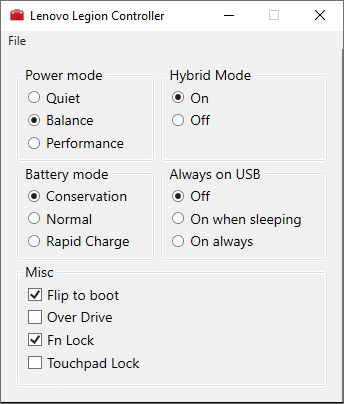
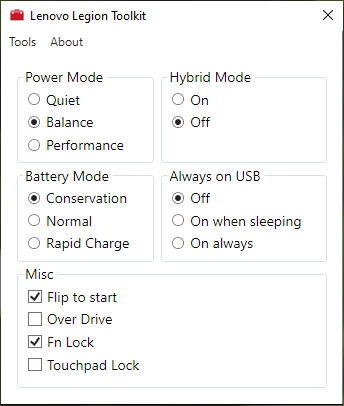
Updated readme and some minor tweaks to UI.

diff --git a/MainWindow.xaml b/MainWindow.xaml
@@ -5,10 +5,10 @@
         xmlns:mc="http://schemas.openxmlformats.org/markup-compatibility/2006"
         mc:Ignorable="d"
         Title="Lenovo Legion Toolkit" SizeToContent="WidthAndHeight" ResizeMode="NoResize" x:Name="mainWindow"
-        FontSize="14" WindowStartupLocation="CenterScreen" Background="#FFF0F0F0">
+        FontSize="14" WindowStartupLocation="CenterScreen" Background="#FFF">
 
     <DockPanel>
-        <Menu DockPanel.Dock="Top" Background="#FFF0F0F0">
+        <Menu DockPanel.Dock="Top" Background="#FFF" Margin="1">
             <MenuItem Header="Tools">
                 <MenuItem Header="Lenovo Vantage">
                     <MenuItem Header="Enable" Click="EnableVantageMenuItem_Click" />

diff --git a/AboutWindow.xaml.cs b/AboutWindow.xaml.cs
@@ -14,7 +14,7 @@ namespace LenovoLegionToolkit
         {
             InitializeComponent();
 
-            versionLbl.Content += Assembly.GetEntryAssembly().GetName().Version.ToString(3);
+            versionLbl.Content += Assembly.GetEntryAssembly().GetName().Version.ToString(2);
         }
 
         private void Hyperlink_RequestNavigate(object sender, RequestNavigateEventArgs e)

diff --git a/App.xaml.cs b/App.xaml.cs
@@ -39,7 +39,7 @@ namespace LenovoLegionToolkit
 
         private static bool ShouldByPassCompatibilityCheck(string[] args)
         {
-            return args.Length > 0 && args[0] == "--skip-compat-check";
+            return args.Length > 0 && args[0] == "--no-compat-check";
         }
     }
 }

diff --git a/README.md b/README.md
@@ -1,8 +1,8 @@
 # Lenovo Legion Toolkit
 
-This is a small utility (less than 10MB) created for Lenovo Legion laptops, that allows to change a couple of features that are usually part of Lenovo Vantage.
+This is a small utility (less than 10MB) created for Lenovo Legion laptops, that allows to change a couple of features that are only available in Lenovo Vantage.
 
-It is a simple executable that needs no installation and runs no background services. It uses less memory and contains no telemetry.
+It is a single executable app that needs no installation and runs no background services. It uses less memory, virtually no CPU and contains no telemetry.
 
 ![screenshot](assets/screenshot.png)
 
@@ -16,10 +16,12 @@ The tool comes with no warranty. Use at you own risk.
 
 ## Compatibility
 
+* Lenovo Legion 7 16ACHg6
+* Lenovo Legion 7 16ITHg6
 * Lenovo Legion 5 Pro 16ACH6H
 
 
-The application should work on most new Legion 2021 laptops, but since I have no way of testing if all features work correctly, it will not run on incompatible machines.
+This app can probably work on a lot more 2021 Lenovo laptops. If you want to help expand the list check the *Contribution* section.
 
 
 ## Features
@@ -34,18 +36,20 @@ The app allows to:
 
 * Always on USB charge settings: on, off and on when sleeping,
 
-* Flip to boot, Over Drive, Fn and Touchpad locks.
+* Flip to start, Over Drive, Fn and Touchpad locks.
 
 This app also allows you to disable Lenovo Vantage without uninstalling it. It it especially useful, you want to keep Vantage around i.e. for checking updates.
 
-You can do it from the File menu on top. If you disable Vantage, it will stop and disable it's services, and disable all funky Lenovo Scheduled tasks. Once Vantage is disabled, it will no longer start any background processes on startup. If you want to open Lenovo Vantage, you need to re-enable it from the tool, otherwise it will prompt to reinstall itself.
+You can do it from the Tools menu on top. If you disable Vantage, it will stop and disable it's services, and disable all funky Lenovo Scheduled tasks. Once Vantage is disabled, it will no longer start any background processes on startup. If you want to open Lenovo Vantage, you need to re-enable it from the tool, otherwise it will prompt to reinstall itself.
 
 
 ## Requirements
 
 This tool is written with .NET 5 which means you need to have **.NET Desktop Runtime 5**. You can get it from here:
 
-https://dotnet.microsoft.com/download/dotnet/5.0
+https://dotnet.microsoft.com/download/dotnet/5.0/runtime
+
+You don't need to install it if you already have the .NET SDK 5 installed.
 
 
 ## Credits
@@ -57,14 +61,23 @@ Check out his repo: https://github.com/ViRb3/LenovoController
 
 ## Contribution
 
-I would like if the tool could work on more models than just Legion 5 Pro.
+I appreciate any feedback that you have, so please do not hesitate to report issues. PRs are also welcome!
 
-If you want to help and test this on your device you can try to download [this version](https://1drv.ms/u/s!ApDfgN6g_FJ6hM9a09t0WMayeCHzqA?e=BcNzY4), which does not check compatibility and test it out at your own risk. I would really appreciate if you create an issue here on GitHub with the results of your testing.
+It would be great to expand the list of compatible devices, but to do it your help is needed.
 
-Make sure to include following information:
+If you are willing to check if this app works correctly on your device that is currently unsupported, you can do it by starting the with ``--no-compat-check`` argument.
+
+Remember that some functions may not function properly, so keep this in mind.
+
+If you do it, I would really appreciate if you create an issue here on GitHub with the results of your testing.
+
+Make sure to include following information in your issue:
+
 1. Full model name (i.e. Legion 5 Pro 16ACH6H)
 2. List of features that are working as expected.
 3. List of features that seem to not work (they do nothing).
 4. List of features that crash the app.
 
 The more info you add, the better the app will get over time.
+
+Thanks in advance!
